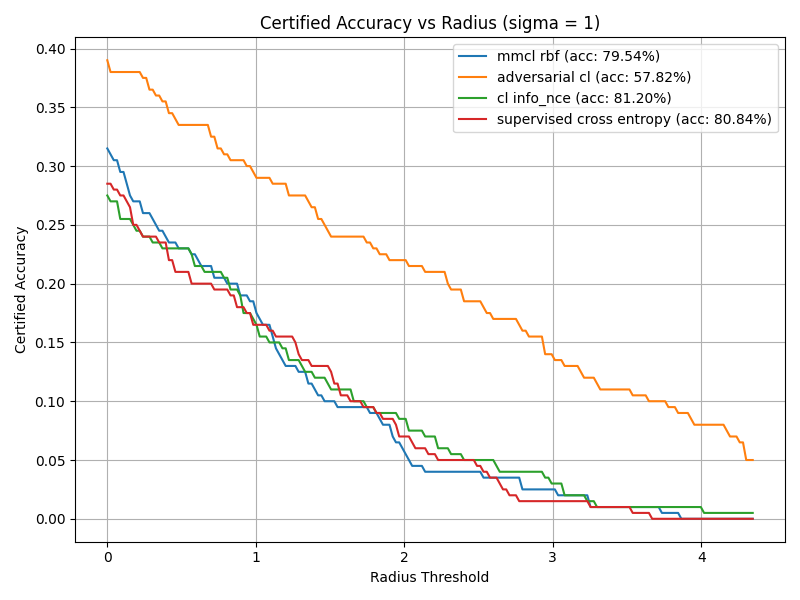
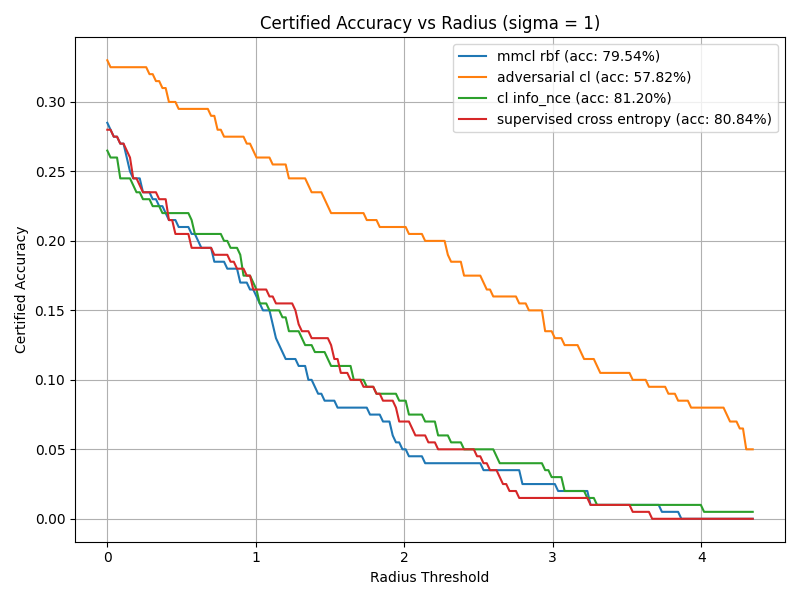
Small updates

diff --git a/resnet/resnet_unsupervised.py b/resnet/resnet_unsupervised.py
@@ -6,7 +6,10 @@ import torch
 import torch.nn as nn
 import torch.nn.functional as F  # Add this line
 import torch.optim as optim
+import torchvision
 import torchvision.models as models
+import torchvision.transforms as transforms
+from torch.utils.data import DataLoader, random_split
 from tqdm import tqdm
 
 import mmcl.utils as utils
@@ -19,31 +22,78 @@ class ResnetUnsupervised(nn.Module):
         super(ResnetUnsupervised, self).__init__()
         self.hparams = hparams
         self.device = device
-        print(f"Using device: {self.device}")
+        self.set_encoder_and_classifier()
+        self.set_data_loader()
+        self.criterion = nn.CrossEntropyLoss()
+        self.set_optimizer()
+        self.scheduler = optim.lr_scheduler.StepLR(
+            self.optimizer,
+            step_size=self.hparams.step_size,
+            gamma=self.hparams.scheduler_gamma,
+        )
+        self.best_model_saved = False
+        self.min_epochs = 80
+
+    def set_encoder_and_classifier(self):
         self.encoder = self.load_resnet_encoder_from_ckpt(self.hparams.resnet_unsupervised_ckpt)
         self.encoder.to(self.device)
         if self.hparams.relu_layer:
             self.classifier = nn.Sequential(
-                nn.Linear(2048, 4096), # reduce size in few steps
+                nn.Linear(2048, 1024), # reduce size in few steps
                 nn.ReLU(),
-                nn.Linear(4096, 10),
+                nn.Linear(1024, 512),
+                nn.ReLU(),
+                nn.Linear(512, 10),
             ).to(self.device)
         else:
             self.classifier = nn.Linear(2048, 10).to(self.device)
+
+    def load_resnet_encoder_from_ckpt(self, ckpt):
+        checkpoint = torch.load(ckpt, map_location=self.device)
+        state_dict = checkpoint['state_dict']
+        new_state_dict = {k.replace("convnet.", ""): v for k, v in state_dict.items() if not k.startswith("projection.")}
+        model = models.resnet50(pretrained=False)
+        model.load_state_dict(new_state_dict, strict=True)
+        model.fc = torch.nn.Identity()
+        return model
+
+    def set_data_loader(self):
+        transform_train = transforms.Compose([
+            transforms.RandomCrop(32, padding=4),
+            transforms.RandomHorizontalFlip(),
+            transforms.ToTensor(),
+            transforms.Normalize((0.4914, 0.4822, 0.4465), (0.2023, 0.1994, 0.2010)),
+        ])
+        transform_test = transforms.Compose([
+            transforms.ToTensor(),
+            transforms.Normalize((0.4914, 0.4822, 0.4465), (0.2023, 0.1994, 0.2010)),
+        ])
+        full_train_set = torchvision.datasets.CIFAR10(
+            root='./data', train=True, download=True, transform=transform_train
+        )
+        test_set = torchvision.datasets.CIFAR10(
+                root='./data', train=False, download=True, transform=transform_test
+        )
+        self.testloader = DataLoader(
+            test_set, batch_size=self.hparams.batch_size, shuffle=False, num_workers=2
+        )
         if self.hparams.use_validation:
-            (
-                self.trainloader,
-                self.traindst,
-                self.valloader,
-                self.valdst,
-                self.testloader,
-                self.testdst,
-            ) = data_loader.get_train_val_test_dataset(self.hparams)
-        else:
-            self.trainloader, self.traindst, self.testloader, self.testdst = (
-                data_loader.get_dataset(self.hparams)
+            total_size = len(full_train_set)
+            val_size = 2000
+            train_size = total_size - val_size
+            train_set, val_set = random_split(full_train_set, [train_size, val_size])
+            self.trainloader = DataLoader(
+                train_set, batch_size=self.hparams.batch_size, shuffle=True, num_workers=2
             )
-        self.criterion = nn.CrossEntropyLoss()
+            self.valloader = DataLoader(
+                val_set, batch_size=self.hparams.batch_size, shuffle=False, num_workers=2
+            )
+        else:
+            self.trainloader = DataLoader(
+                full_train_set, batch_size=self.hparams.batch_size, shuffle=True, num_workers=2
+            )
+
+    def set_optimizer(self):
         if self.hparams.finetune:
             for param in self.encoder.layer4.parameters():
                 param.requires_grad = True
@@ -55,22 +105,6 @@ class ResnetUnsupervised(nn.Module):
             self.optimizer = optim.Adam(
                 self.classifier.parameters(), lr=self.hparams.lr
             )
-        self.scheduler = optim.lr_scheduler.StepLR(
-            self.optimizer,
-            step_size=self.hparams.step_size,
-            gamma=self.hparams.scheduler_gamma,
-        )
-        self.best_model_saved = False
-        self.min_epochs = 80
-
-    def load_resnet_encoder_from_ckpt(self, ckpt):
-        checkpoint = torch.load(ckpt, map_location=self.device)
-        state_dict = checkpoint['state_dict']
-        new_state_dict = {k.replace("convnet.", ""): v for k, v in state_dict.items() if not k.startswith("projection.")}
-        model = models.resnet50(pretrained=False)
-        model.load_state_dict(new_state_dict, strict=True)
-        model.fc = torch.nn.Identity()
-        return model
 
     def forward(self, x):
         # Upsample the input images to 224x224 using bilinear interpolation
@@ -102,56 +136,38 @@ class ResnetUnsupervised(nn.Module):
             self.classifier.train()  # Set the model to training mode
             if self.hparams.finetune:
                 self.encoder.train()
-            total_loss, total_samples = 0.0, 0
+            total_loss, total_num = 0.0, 0
             train_bar = tqdm(self.trainloader, desc=f"Train Epoch {epoch + 1}")
-            for iii, (ori_image, pos_1, pos_2, target) in enumerate(train_bar):
-                ori_image, pos_1, pos_2, target = (
-                    ori_image.to(self.device),
-                    pos_1.to(self.device),
-                    pos_2.to(self.device),
-                    target.to(self.device),
-                )
-                # Combine images and corresponding targets
-                images = torch.cat([ori_image, pos_1, pos_2], dim=0)
+            for iii, (images, targets) in enumerate(train_bar):
+                images, targets = images.to(self.device), targets.to(self.device)
                 logits = self.forward(x=images)
-                targets = torch.cat([target, target, target], dim=0)
-                # Backpropagation and optimizer step
                 loss = self.criterion(logits, targets)
                 self.optimizer.zero_grad()
                 loss.backward()
                 self.optimizer.step()
                 # Logging
-                batch_size = pos_1.size(0)
+                batch_size = images.size(0)
                 total_loss += loss.item() * batch_size
-                total_samples += batch_size
-                train_bar.set_postfix(loss=f"{total_loss / total_samples:.4f}")
-            train_loss = total_loss/len(self.traindst)
+                total_num += batch_size
+                train_bar.set_postfix(loss=f"{total_loss / total_num:.4f}")
+            train_loss = total_loss / total_num
             train_losses.append(train_loss)
             print(f"Epoch [{epoch+1}/{self.hparams.num_iters}] - Train Loss: {train_loss:.4f}")
             # validation
             if self.hparams.use_validation:
                 val_bar = tqdm(self.valloader, desc=f"Val Epoch {epoch + 1}")
-                # Validation Phase
-                self.classifier.eval()  # Set the model to evaluation mode
+                self.classifier.eval()
+                self.encoder.eval()
                 total_loss, total_num = 0.0, 0
                 with torch.no_grad():
-                    for iii, (ori_image, pos_1, pos_2, target) in enumerate(val_bar):
-                        ori_image, pos_1, pos_2, target = (
-                            ori_image.to(self.device),
-                            pos_1.to(self.device),
-                            pos_2.to(self.device),
-                            target.to(self.device),
-                        )
-                        # Combine images and corresponding targets
-                        images = torch.cat([ori_image, pos_1, pos_2], dim=0)
+                    for iii, (images, targets) in enumerate(val_bar):
+                        images, targets = images.to(self.device), targets.to(self.device)
                         logits = self.forward(x=images)
-                        targets = torch.cat([target, target, target], dim=0)
-                        # Compute InfoNCE loss
                         loss = self.criterion(logits, targets)
-                        batch_size = pos_1.size(0)
+                        batch_size = images.size(0)
                         total_num += batch_size
                         total_loss += loss.item() * batch_size
-                val_loss = total_loss / len(self.valdst)
+                val_loss = total_loss / total_num
                 val_losses.append(val_loss)
                 # Early Stopping Check
                 if val_loss < best_val_loss:
@@ -198,7 +214,8 @@ class ResnetUnsupervised(nn.Module):
     def test(self):
         """Evaluate the model on the test dataset."""
         self.classifier.eval()
-        total_correct, total_samples = 0, 0
+        self.encoder.eval()
+        total_correct, total_num = 0, 0
         total_loss = 0.0
         test_bar = tqdm(self.testloader, desc="Testing")
 
@@ -214,20 +231,20 @@ class ResnetUnsupervised(nn.Module):
                 correct = (predictions == targets).sum().item()
                 # Update metrics
                 total_correct += correct
-                total_samples += targets.size(0)
+                total_num += targets.size(0)
                 total_loss += loss.item() * targets.size(0)
                 # Update progress bar
                 test_bar.set_description(
                     "Test: Loss: {:.4e}, Acc: {:.2f}%".format(
-                        total_loss / total_samples, 100 * total_correct / total_samples
+                        total_loss / total_num, 100 * total_correct / total_num
                     )
                 )
         # Final metrics
         metrics = {
-            "accuracy": total_correct / total_samples,
-            "loss": total_loss / total_samples,
+            "accuracy": total_correct / total_num,
+            "loss": total_loss / total_num,
             "total_correct": total_correct,
-            "total_samples": total_samples,
+            "total_num": total_num,
         }
         print(f"Test Results: {json.dumps(metrics, indent=4)}")
         return metrics
@@ -236,7 +253,7 @@ class ResnetUnsupervised(nn.Module):
         save_dir = "models/resnet_pretrained_models"
         os.makedirs(save_dir, exist_ok=True)
         encoder_name = self.hparams.resnet_unsupervised_ckpt.split("/")[-1]
-        prefix = "finetune_" if self.hparams.finetune else ""
+        prefix = "finetune_"
         save_path = os.path.join(save_dir, f"{prefix}{encoder_name}")
         torch.save(self.encoder.state_dict(), save_path)
 

diff --git a/plot_from_json/randomized_smoothing_compute_cl.py b/plot_from_json/randomized_smoothing_compute_cl.py
@@ -26,7 +26,7 @@ for model in model_names:
         for curr_radius in certified_radius_choices:
             certified_count = sum(
                 1 for x in all_values
-                if x["radius"] > curr_radius and x["true_label"] == x["rs_label"]
+                if x["radius"] > curr_radius and x["true_label"] == x["rs_label"] == rs["predicted_label"]
             )
             unchanged_count = sum(
                 1 for x in all_values
@@ -90,46 +90,6 @@ for key, value in per_sigma_radius_updated.items():
     row["best_unchanged_model"] = ", ".join(value["best_unchanged_percentage_models"])
     rows.append(row)
 
-df = pd.DataFrame(rows)
-df = df.sort_values(by=["sigma", "radius"]).reset_index(drop=True)
-
-excel_filename = f"../rs_results/{file_name}.xlsx"
-df.to_excel(excel_filename, index=False)
-
-# Load workbook and apply per-row bold formatting
-wb = load_workbook(excel_filename)
-ws = wb.active
-
-# Get header names to identify columns for certified accuracy (_cia) and unchanged percentage (_up)
-header_names = [cell.value for cell in ws[1]]
-cia_indices = [i+1 for i, name in enumerate(header_names) if isinstance(name, str) and name.endswith("_cia")]
-up_indices = [i+1 for i, name in enumerate(header_names) if isinstance(name, str) and name.endswith("_up")]
-
-# Iterate over each data row
-for row in ws.iter_rows(min_row=2, max_row=ws.max_row):
-    current_row = row[0].row  # get current row number
-    # Process certified accuracy columns
-    cia_values = [(ws.cell(row=current_row, column=col).value, col) for col in cia_indices]
-    # Filter numeric values and determine maximum for certified accuracy
-    cia_numeric = [value for value, _ in cia_values if isinstance(value, (int, float))]
-    if cia_numeric:
-        max_cia = max(cia_numeric)
-        for value, col in cia_values:
-            if isinstance(value, (int, float)) and value == max_cia:
-                ws.cell(row=current_row, column=col).font = Font(bold=True)
-    # Process unchanged percentage columns
-    up_values = [(ws.cell(row=current_row, column=col).value, col) for col in up_indices]
-    up_numeric = [value for value, _ in up_values if isinstance(value, (int, float))]
-    if up_numeric:
-        max_up = max(up_numeric)
-        for value, col in up_values:
-            if isinstance(value, (int, float)) and value == max_up:
-                ws.cell(row=current_row, column=col).font = Font(bold=True)
-
-wb.save(excel_filename)
-print(f"Excel file with per-row formatting saved to: {os.path.abspath(excel_filename)}")
-
-
 def plot_one_per_sigma(data):
     sigma_set = set()
     for model in model_names:
@@ -155,7 +115,9 @@ def plot_one_per_sigma(data):
             total = len(records)
             y_vals = []
             for r in x_vals:
-                count = sum(1 for rec in records if rec["radius"] >= r and rec["true_label"] == rec["rs_label"])
+                count = sum(
+                    1 for rec in records if rec["radius"] >= r and rec["true_label"] == rec["rs_label"] == rec["predicted_label"]
+                )
                 y_vals.append(count / total if total > 0 else 0)
             plt.plot(x_vals, y_vals, label=model)
         plt.xlabel("Radius Threshold")

diff --git a/plot_from_json/randomized_smoothing_compute.py b/plot_from_json/randomized_smoothing_compute.py
@@ -27,7 +27,7 @@ for model in model_names:
         for curr_radius in certified_radius_choices:
             certified_count = sum(
                 1 for x in all_values
-                if x["radius"] >= curr_radius and x["true_label"] == x["rs_label"]
+                if x["radius"] >= curr_radius and x["true_label"] == x["rs_label"] == x["predicted_label"]
             )
             unchanged_count = sum(
                 1 for x in all_values
@@ -121,7 +121,9 @@ def plot_one_per_sigma(data):
             total = len(records)
             y_vals = []
             for r in x_vals:
-                count = sum(1 for rec in records if rec["radius"] >= r and rec["true_label"] == rec["rs_label"])
+                count = sum(
+                    1 for rec in records if rec["radius"] >= r and rec["true_label"] == rec["rs_label"] == rec["predicted_label"]
+                )
                 y_vals.append(count / total if total > 0 else 0)
             # Construct legend label with test accuracy
             test_acc = model_to_accuracy.get(model, "N/A")

diff --git a/plot_from_json/randomized_smoothing_compute_mmcl.py b/plot_from_json/randomized_smoothing_compute_mmcl.py
@@ -27,7 +27,7 @@ for model in model_names:
         for curr_radius in certified_radius_choices:
             certified_count = sum(
                 1 for x in all_values
-                if x["radius"] >= curr_radius and x["true_label"] == x["rs_label"]
+                if x["radius"] >= curr_radius and x["true_label"] == x["rs_label"] == x["true_label"]
             )
             unchanged_count = sum(
                 1 for x in all_values
@@ -121,7 +121,9 @@ def plot_one_per_sigma(data):
             total = len(records)
             y_vals = []
             for r in x_vals:
-                count = sum(1 for rec in records if rec["radius"] >= r and rec["true_label"] == rec["rs_label"])
+                count = sum(
+                    1 for rec in records if rec["radius"] >= r and rec["true_label"] == rec["rs_label"] == rec["predicted_label"]
+                )
                 y_vals.append(count / total if total > 0 else 0)
             # Construct legend label with test accuracy
             test_acc = model_to_accuracy.get(model, "N/A")
